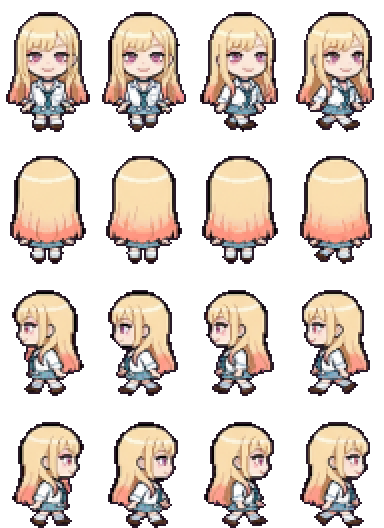
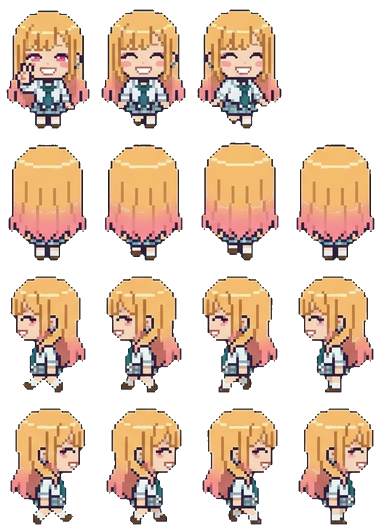
Redraw Kitagawa Marin in the shared art style with a big smile
Claude-Session: https://claude.ai/code/session_01KaPsBYLrtbRfMYNG2xeBCK

diff --git a/docs/app.js b/docs/app.js
@@ -75,7 +75,7 @@ function spr(cat, k, col, sc) {
   return `<div class="clip" style="width:${it[2] * sc}px;height:${it[3] * sc}px;POS"><img class="px" src="assets/decor/${cat}.png" alt="" style="width:${S.sw * sc}px;height:${S.sh * sc}px;margin-left:${-col * S.cw * sc}px;margin-top:${-i * S.ch * sc}px"></div>`;
 }
 const icon = (k, sz) => `<span class="itm" style="width:${sz}px;height:${sz}px"><img class="px" src="assets/ui/items.png" alt="" style="width:${IT.length * sz}px;height:${sz}px;margin-left:${-ITM[k].i * sz}px"></span>`;
-const face = (id, w) => { const s = w / 96; return `<img class="px" src="assets/ch/${id}.webp?v=61" alt="" style="position:absolute;width:${384 * s}px;height:${528 * s}px;left:${-(96 * s - w) / 2}px;top:0;max-width:none">`; };
+const face = (id, w) => { const s = w / 96; return `<img class="px" src="assets/ch/${id}.webp?v=62" alt="" style="position:absolute;width:${384 * s}px;height:${528 * s}px;left:${-(96 * s - w) / 2}px;top:0;max-width:none">`; };
 
 // ---------- 저장 ----------
 let fb = null, user = null, S = null, saveT = null;
@@ -143,7 +143,7 @@ function sleepHTML(id, r, dy) {
   const pos = r.a && r.a[0] === 'bed' ? 'left:3%;bottom:20%' : r.b && r.b[0] === 'bed' ? 'right:3%;bottom:20%' : 'left:calc(50% - 44px);bottom:6%';
   const s = 36 / 96;
   return `<div style="position:absolute;width:88px;height:56px;${pos};z-index:${dy ? 4 : 5};${dy ? `transform:translate(12px,${dy}px)` : ''}"><div style="position:absolute;inset:0;filter:brightness(.22)">
-    <div style="position:absolute;left:11px;top:1px;width:36px;height:50px;overflow:hidden;transform:rotate(-90deg)"><img class="px" src="assets/ch/${id}.webp?v=61" alt="" style="width:${384 * s}px;height:${528 * s}px;max-width:none;margin-top:${-132 * s}px"></div>
+    <div style="position:absolute;left:11px;top:1px;width:36px;height:50px;overflow:hidden;transform:rotate(-90deg)"><img class="px" src="assets/ch/${id}.webp?v=62" alt="" style="width:${384 * s}px;height:${528 * s}px;max-width:none;margin-top:${-132 * s}px"></div>
     <div style="position:absolute;left:19px;top:19px;width:67px;height:29px;border:2px solid var(--ink);border-radius:8px 6px 4px 4px;background:#8ccff5;background-image:repeating-linear-gradient(90deg,transparent 0 10px,rgba(255,255,255,.5) 10px 13px)"></div></div>
     ${dy ? '' : '<span class="emo" style="left:8px;top:-22px;color:#5b6bd6">Z z z</span>'}</div>`;
 }
@@ -153,8 +153,8 @@ function roomHTML(id, o, scale) {
     <div class="floor" style="background-color:${PAL[r.fc][1]};background-image:${tileUrl('floor', r.fl)}"></div>
     ${slot('deco', r.dc, 'left:6%;top:6%')}${slot('furn', r.a, 'left:3%;bottom:20%')}${slot('furn', r.b, 'right:3%;bottom:20%')}${slot('prop', r.pr, 'left:28%;bottom:4%;z-index:2')}
     ${id && o.sleeping && g ? sleepHTML(g, r, -16) : ''}${id && o.sleeping ? sleepHTML(id, r) : ''}${id && o.job ? `<div style="position:absolute;left:50%;top:38%;transform:translateX(-50%);z-index:5;background:#fff;border:3px solid var(--ink);border-radius:10px;padding:6px 10px;font-size:11px;text-align:center;line-height:1.5"><img src="assets/ui/ic_job.png" alt="" style="width:18px;vertical-align:-4px"> ${WORK[id] ? WORK[id][1] : esc(JOB_NAME[id]) + ' 알바 중'}${g ? `<br><small>${esc(nameOf(g))}도 같이</small>` : ''}<br><b id="jobleft">${timeLeft(o.job.until)}</b></div>` : ''}
-    ${id ? `<div class="shadow" id="shd" ${o.sleeping || o.job ? 'style="display:none"' : ''}></div><div class="man" id="man" ${o.sleeping || o.job ? 'style="display:none"' : ''}><img class="px" src="assets/ch/${id}.webp?v=61" alt="${esc(nameOf(id))}"></div><span class="emo" id="emo" hidden></span><span class="mumble" id="mum" hidden></span>` : ''}
-    ${g ? `<div class="shadow" id="gshd" ${hideG}></div><div class="man" id="gman" ${hideG}><img class="px" src="assets/ch/${g}.webp?v=61" alt="${esc(nameOf(g))}"></div><span class="emo" id="gemo" hidden></span><span class="mumble gmum" id="gmum" hidden></span>` : ''}
+    ${id ? `<div class="shadow" id="shd" ${o.sleeping || o.job ? 'style="display:none"' : ''}></div><div class="man" id="man" ${o.sleeping || o.job ? 'style="display:none"' : ''}><img class="px" src="assets/ch/${id}.webp?v=62" alt="${esc(nameOf(id))}"></div><span class="emo" id="emo" hidden></span><span class="mumble" id="mum" hidden></span>` : ''}
+    ${g ? `<div class="shadow" id="gshd" ${hideG}></div><div class="man" id="gman" ${hideG}><img class="px" src="assets/ch/${g}.webp?v=62" alt="${esc(nameOf(g))}"></div><span class="emo" id="gemo" hidden></span><span class="mumble gmum" id="gmum" hidden></span>` : ''}
     ${o.sleeping ? `<div class="night"></div><div class="sleepleft">쿨쿨 · 일어나기까지 <b id="sleepleft">${timeLeft(wakeAt(o)).replace(' 남음', '')}</b></div>` : ''}
   </div>`;
 }
@@ -167,7 +167,7 @@ function meterHTML(o) {
 const ic = (act, img, label, pressed) => `<button class="ic" data-act="${act}" ${pressed ? 'aria-pressed="true"' : ''}><img src="assets/ui/ic_${img}.png?v=2" alt="">${label}</button>`;
 
 let dropStyle = null; const cheat = {};
-const APP_V = 133, COUPONS = { NINOGUYA: 3000 };
+const APP_V = 134, COUPONS = { NINOGUYA: 3000 };
 // 쿠폰 입력 정리: 한글 자판 상태로 친 글자(ㅜㅑㅜㅐ혀ㅛㅁ)도 영어 자판 글자로 바꾸고, 대소문자·띄어쓰기·마침표는 무시해요
 const KEY = { ㄱ: 'r', ㄲ: 'R', ㄴ: 's', ㄷ: 'e', ㄸ: 'E', ㄹ: 'f', ㅁ: 'a', ㅂ: 'q', ㅃ: 'Q', ㅅ: 't', ㅆ: 'T', ㅇ: 'd', ㅈ: 'w', ㅉ: 'W', ㅊ: 'c', ㅋ: 'z', ㅌ: 'x', ㅍ: 'v', ㅎ: 'g',
   ㅏ: 'k', ㅐ: 'o', ㅑ: 'i', ㅒ: 'O', ㅓ: 'j', ㅔ: 'p', ㅕ: 'u', ㅖ: 'P', ㅗ: 'h', ㅘ: 'hk', ㅙ: 'ho', ㅚ: 'hl', ㅛ: 'y', ㅜ: 'n', ㅝ: 'nj', ㅞ: 'np', ㅟ: 'nl', ㅠ: 'b', ㅡ: 'm', ㅢ: 'ml', ㅣ: 'l',
@@ -407,7 +407,7 @@ function startTrip(k) {
   if (tg) lines[1] = `${nameOf(tg)}: ${withHim(sub(pick(GLX(tg).trip), o, c.n), tg)}`;
   const n = (FR[id] || [4, 4, 4, 4])[3], el = document.createElement('div'); el.className = 'tripview';
   el.innerHTML = `<div class="tsay"> </div><div class="tstage" style="background-image:url(assets/travel/${k}.png?v=2)"><div class="tplace">${esc(c.n)}</div>
-    <div class="twalker"><img class="px" src="assets/ch/${id}.webp?v=61" alt=""></div>${tg ? `<div class="twalker tgirl"><img class="px" src="assets/ch/${tg}.webp?v=61" alt=""></div>` : ''}<span class="emo tjoy">♪</span></div>
+    <div class="twalker"><img class="px" src="assets/ch/${id}.webp?v=62" alt=""></div>${tg ? `<div class="twalker tgirl"><img class="px" src="assets/ch/${tg}.webp?v=62" alt=""></div>` : ''}<span class="emo tjoy">♪</span></div>
     <div class="tbar"><i></i></div><button class="btn white tskip" data-tskip="1">바로 돌아오기</button>`;
   document.body.appendChild(el);
   const gimg = el.querySelector('.tgirl img'), gn = tg ? (FR[tg] || [4, 4, 4, 4])[3] : 1;
@@ -636,7 +636,7 @@ setInterval(() => { if (S && user) { tickTime(); save(); } }, 60000);
     if (nv > APP_V && !location.search.includes('u=' + nv)) { location.replace(location.pathname + '?u=' + nv); return; }
   } catch { }
   app.innerHTML = '<div class="start"><div class="egg"><div class="scr"></div></div><div class="note">불러오는 중....</div></div>';
-  const [c, t, f, it, mu, ct, tv, gl, sts] = await Promise.all(['data/chars.json', 'data/talk.json', 'data/frames.json', 'data/items.json', 'data/mumble.json', 'data/countries.json', 'data/travel.json', 'data/girls.json', 'data/sets.json'].map(u => fetch(u + '?v=133').then(r => r.ok ? r.json() : {})));
+  const [c, t, f, it, mu, ct, tv, gl, sts] = await Promise.all(['data/chars.json', 'data/talk.json', 'data/frames.json', 'data/items.json', 'data/mumble.json', 'data/countries.json', 'data/travel.json', 'data/girls.json', 'data/sets.json'].map(u => fetch(u + '?v=134').then(r => r.ok ? r.json() : {})));
   CH = c; CHM = Object.fromEntries(c.map(x => [x.id, x])); TALK = t; FR = f; IT = it; ITM = Object.fromEntries(it.map(x => [x.k, x])); MUM = mu; CTRY = ct; TRV = tv; GL = Array.isArray(gl) ? gl : []; SETS = Array.isArray(sts) ? sts : []; GLM = Object.fromEntries(GL.map(x => [x.id, x]));
   try { await initFirebase(); } catch (e) { console.warn('Firebase 연결 실패, 기기 저장으로', e); fb = null; }
   if (fb) {

diff --git a/docs/index.html b/docs/index.html
@@ -18,6 +18,6 @@
 <main id="app" aria-live="polite"></main>
 <div id="toast" role="status" hidden></div>
 <script src="firebase-config.js?v=3"></script>
-<script type="module" src="app.js?v=133"></script>
+<script type="module" src="app.js?v=134"></script>
 </body>
 </html>
